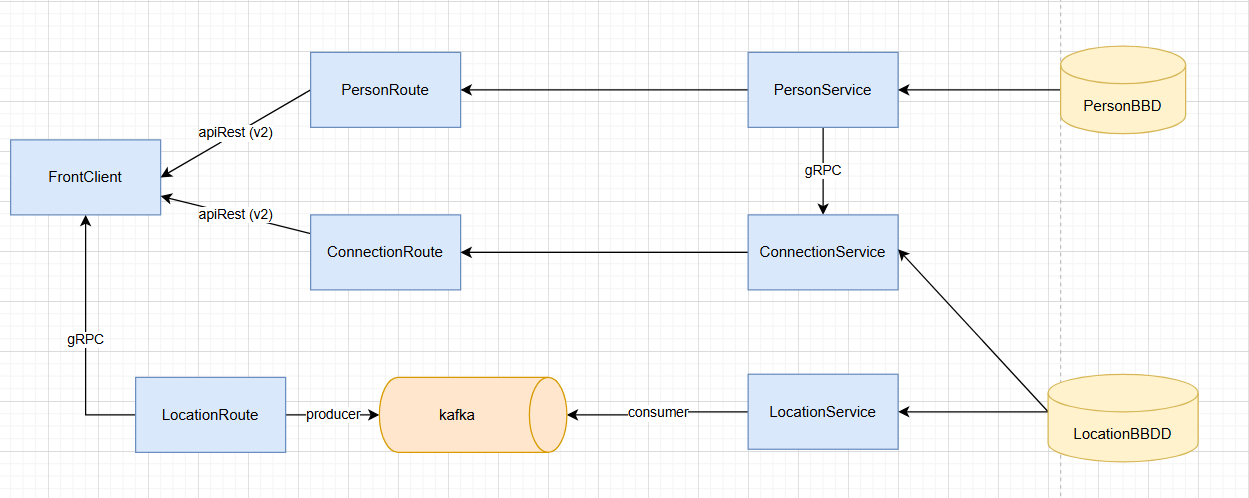
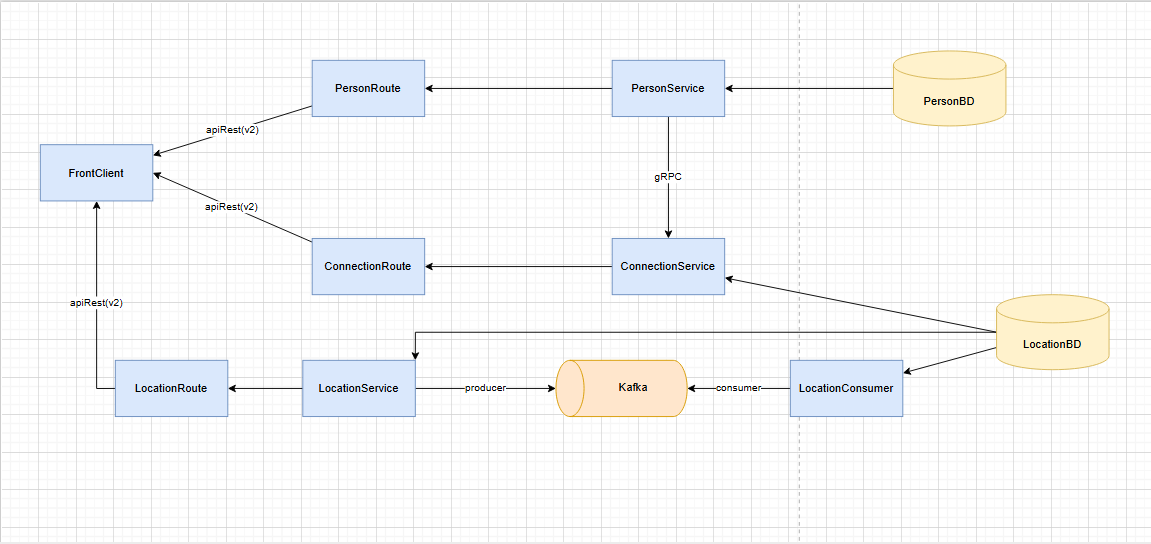
add kafka

diff --git a/modules/microservices/location_consumer/consumer.py b/modules/microservices/location_consumer/consumer.py
@@ -1,0 +1,63 @@
+import json
+import logging
+import os
+
+from kafka import KafkaConsumer
+from geoalchemy2.functions import ST_Point
+from sqlalchemy import create_engine
+from sqlalchemy.orm import sessionmaker
+from models import Location  # import local para evitar dependencias circulares
+
+logging.basicConfig(level=logging.WARNING)
+logger = logging.getLogger("udaconnect-location-consumer")
+
+KAFKA_TOPIC = os.getenv("KAFKA_TOPIC", "locations")
+KAFKA_BROKER = os.getenv("KAFKA_BROKER", "kafka:9092")
+
+DB_USERNAME = os.getenv("DB_USERNAME")
+DB_PASSWORD = os.getenv("DB_PASSWORD")
+DB_HOST = os.getenv("DB_HOST")
+DB_PORT = os.getenv("DB_PORT")
+DB_NAME = os.getenv("DB_NAME")
+
+SQLALCHEMY_DATABASE_URI = f"postgresql://{DB_USERNAME}:{DB_PASSWORD}@{DB_HOST}:{DB_PORT}/{DB_NAME}"
+
+
+def save_location(session, location: dict):
+    new_location = Location()
+    new_location.person_id = location["person_id"]
+    new_location.creation_time = location["creation_time"]
+    new_location.coordinate = ST_Point(location["latitude"], location["longitude"])
+
+    session.add(new_location)
+    session.commit()
+
+
+def main():
+
+    engine = create_engine(SQLALCHEMY_DATABASE_URI)
+    Session = sessionmaker(bind=engine)
+    session = Session()
+
+    consumer = KafkaConsumer(
+        KAFKA_TOPIC,
+        bootstrap_servers=[KAFKA_BROKER],
+        value_deserializer=lambda v: json.loads(v.decode("utf-8")),
+        group_id="location-consumer-group",
+        auto_offset_reset="earliest",
+    )
+
+    logger.info("Consumidor Kafka arrancado, escuchando topic: %s", KAFKA_TOPIC)
+
+    for message in consumer:
+        location = message.value
+        logger.info("Menssage: %s", location)
+        try:
+            save_location(session, location)
+        except Exception as e:
+            logger.error("Error save: %s", e)
+            session.rollback()
+
+
+if __name__ == "__main__":
+    main()

diff --git a/modules/microservices/api_location/app/udaconnect/services.py b/modules/microservices/api_location/app/udaconnect/services.py
@@ -1,3 +1,4 @@
+import os
 import logging
 from datetime import datetime, timedelta
 from typing import Dict, List
@@ -10,6 +11,13 @@ from sqlalchemy.sql import text
 
 logging.basicConfig(level=logging.WARNING)
 logger = logging.getLogger("udaconnect-api")
+from kafka import KafkaProducer
+
+logging.basicConfig(level=logging.WARNING)
+logger = logging.getLogger("udaconnect-api-location")
+
+KAFKA_TOPIC = os.getenv("KAFKA_TOPIC", "locations")
+KAFKA_BROKER = os.getenv("KAFKA_BROKER", "kafka:9092")
 
 class LocationService:
     @staticmethod
